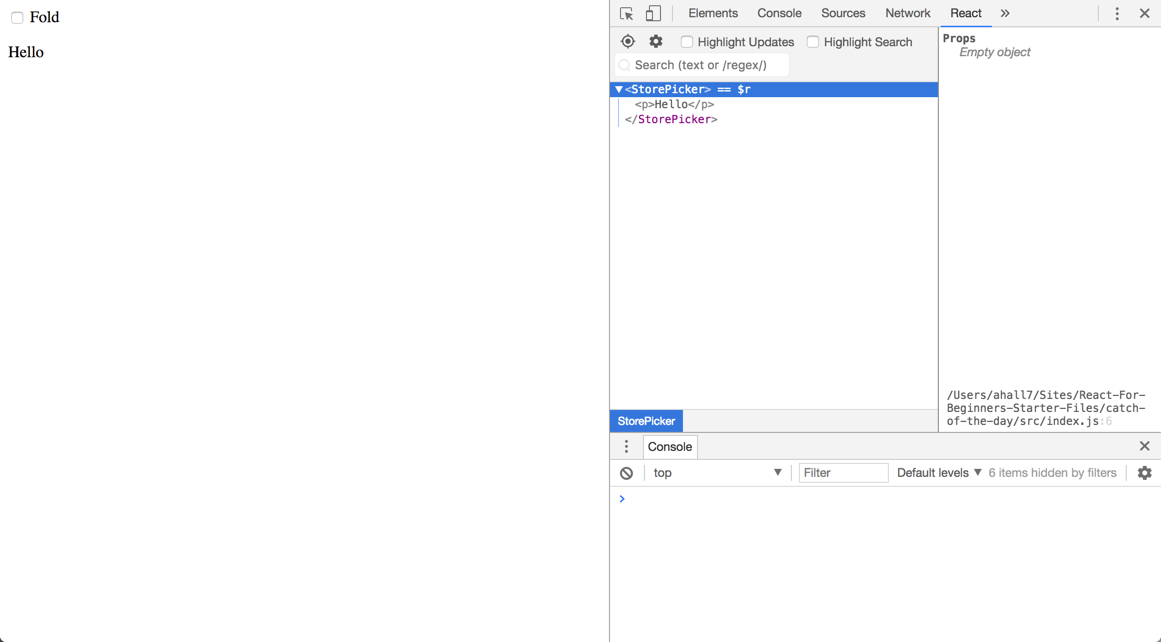
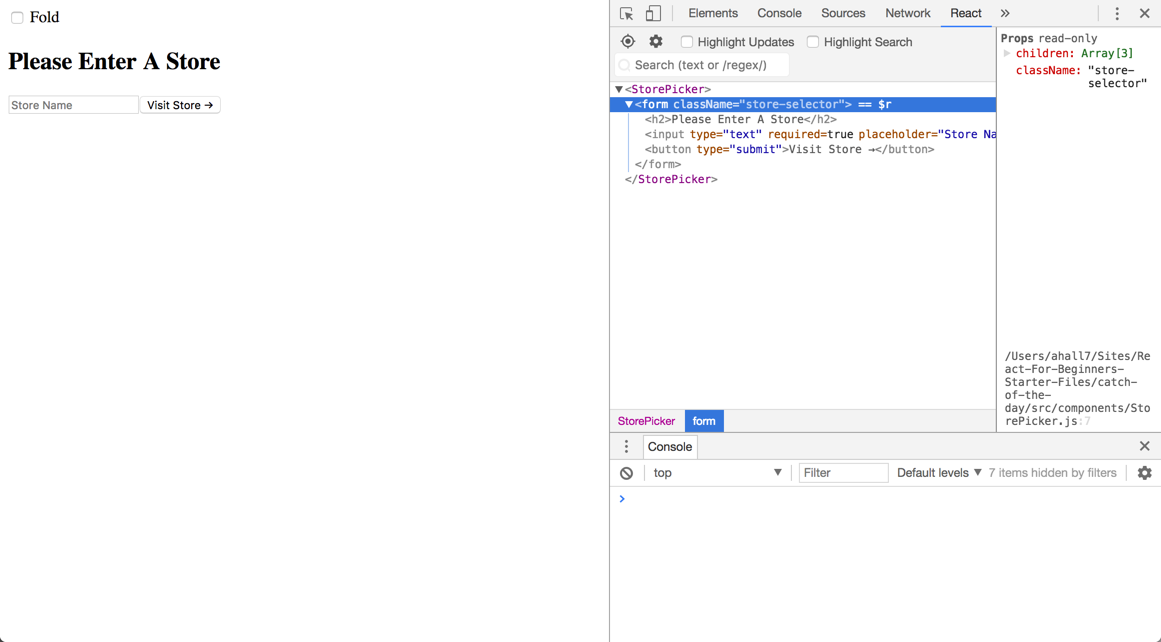
Writing HTML with JSX. Completed

diff --git a/catch-of-the-day/src/components/StorePicker.js b/catch-of-the-day/src/components/StorePicker.js
@@ -2,7 +2,15 @@ import React from 'react';
 
 class StorePicker extends React.Component {
     render() {
-        return <p>Hello</p>
+        // Any where else
+        return (
+            <form className="store-selector">
+                { /* Hello */ }
+                <h2>Please Enter A Store</h2>
+                <input type="text" required placeholder="Store Name" />
+                <button type="submit">Visit Store &rarr;</button>
+            </form>
+        )
     }
 }
 
